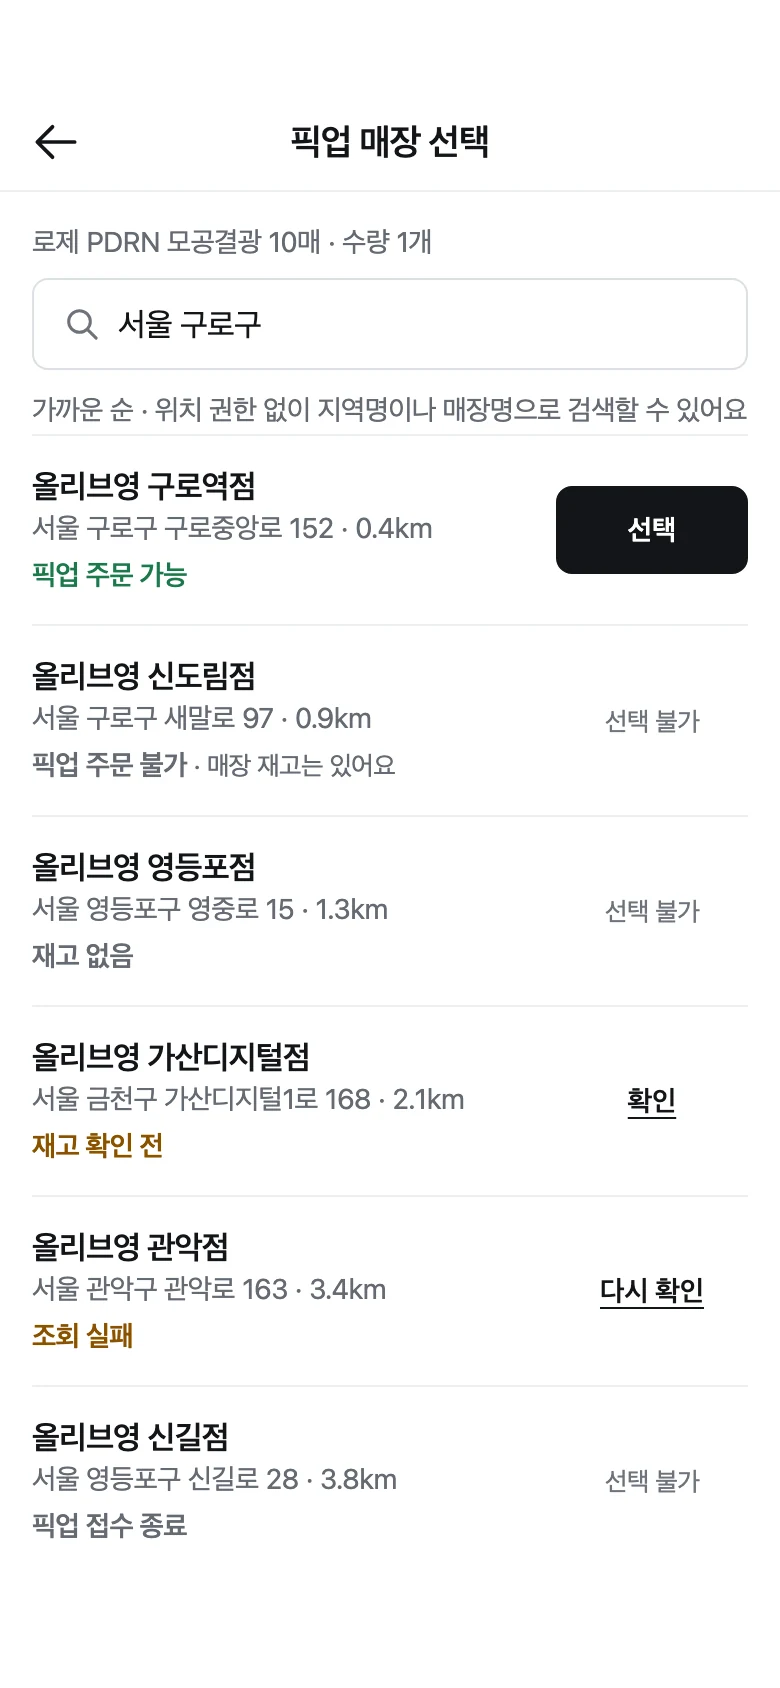
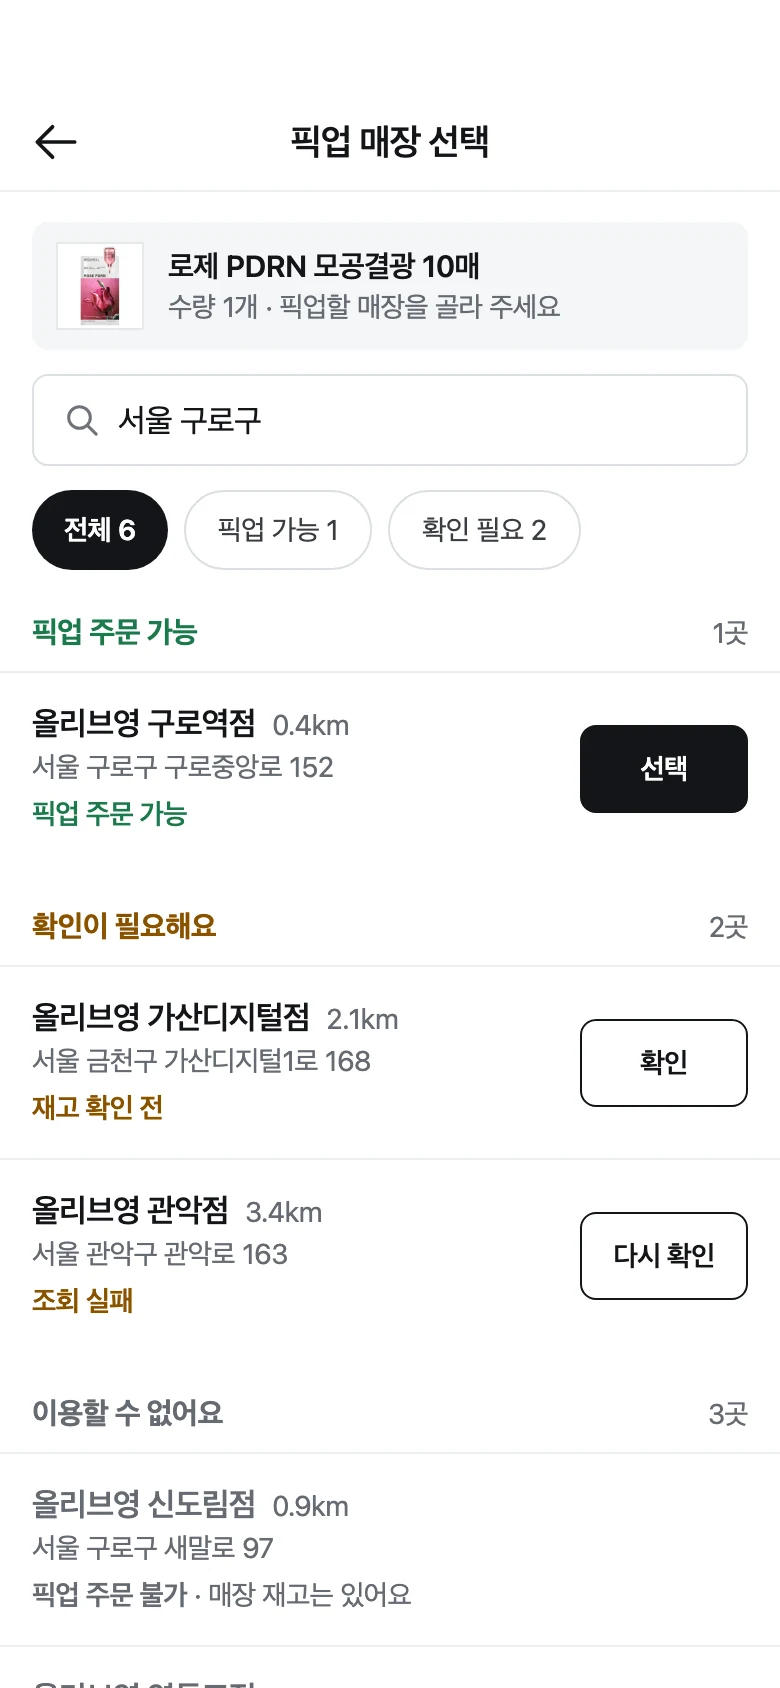
feat: 올리브영 픽업 매장 선택 개선(상태별 그룹·필터 칩·액션 열 정리), 프로토타입·이미지 반영

diff --git a/public/proto/oliveyoung/index.html b/public/proto/oliveyoung/index.html
@@ -115,13 +115,19 @@
 
   <sc-if value="{{isStore}}" hint-placeholder-val="{{ false }}">
     <div style="position:absolute;left:0;right:0;top:47px;height:48px;display:grid;grid-template-columns:56px 1fr 56px;align-items:center;text-align:center;border-bottom:1px solid #EEEFF1;background:#FFFFFF"><button aria-label="뒤로" onClick="{{storeBack}}" style="width:44px;height:44px;margin-left:6px;border:0;background:none;display:flex;align-items:center;justify-content:center"><svg width="28" height="28" viewBox="0 0 24 24" fill="none" stroke="#131518" stroke-width="1.6" stroke-linecap="round" stroke-linejoin="round" aria-hidden="true"><path d="M20 12H4.5M10.5 5.5L4 12l6.5 6.5"></path></svg></button><span style="font-size:18px;font-weight:600">픽업 매장 선택</span><span></span></div>
-    <div style="position:absolute;left:0;right:0;top:96px;bottom:0;overflow-y:auto;padding:16px 16px 120px;box-sizing:border-box">
-      <div style="font-size:14px;line-height:20px;color:#666B73">{{productName}} · 수량 1개</div>
-      <div style="margin-top:8px;height:44px;border:1px solid #DCDFE3;border-radius:8px;padding:0 14px;display:flex;align-items:center;gap:8px;font-size:16px"><svg width="20" height="20" viewBox="0 0 24 24" fill="none" stroke="#6E737B" stroke-width="1.8" stroke-linecap="round" aria-hidden="true"><circle cx="10.5" cy="10.5" r="6.5"></circle><path d="M15.5 15.5l5 5"></path></svg><input type="search" value="{{query}}" onKeyDown="{{searchKey}}" onChange="{{searchChange}}" placeholder="지역명이나 매장명 검색" aria-label="픽업 매장 검색" enterkeyhint="search" style="flex:1;min-width:0;height:42px;border:0;outline:0;background:none;font-size:16px;font-family:inherit;color:#131518;letter-spacing:inherit;padding:0"></div>
-      <sc-if value="{{hasStores}}"><div style="font-size:14px;line-height:20px;color:#666B73;margin:10px 0 2px">가까운 순 · 위치 권한 없이 지역명이나 매장명으로 검색할 수 있어요</div></sc-if>
-      <sc-if value="{{noResults}}"><div style="padding-top:150px;text-align:center"><div style="font-size:18px;line-height:26px;font-weight:700">검색 결과가 없어요</div><div style="font-size:14px;line-height:20px;color:#666B73;margin-top:4px">다른 지역이나 매장 이름으로 검색해 보세요.</div><div style="margin-top:20px;display:flex;justify-content:center"><button onClick="{{clearQuery}}" style="flex:none;width:96px;height:44px;padding:0;font-family:inherit;border-radius:8px;font-size:14px;font-weight:600;background:#FFFFFF;color:#131518;border:1px solid #131518">검색어 지우기</button></div></div></sc-if>
-      <sc-for list="{{stores}}" as="s" hint-placeholder-count="6">
-        <div style="display:flex;align-items:center;gap:8px;padding:14px 0;border-top:1px solid #EEEFF1"><div style="flex:1;min-width:0"><div style="font-size:16px;font-weight:600;line-height:22px">{{s.name}}</div><div style="font-size:14px;line-height:20px;color:#666B73">{{s.addr}}</div><div style="margin-top:2px"><span style="{{s.chipStyle}}">{{s.chip}}</span><span style="font-size:13px;color:#666B73">{{s.chipDesc}}</span></div></div><button onClick="{{s.tap}}" aria-disabled="{{s.disabled}}" style="{{s.btnStyle}}">{{s.btnText}}</button></div>
+    <div style="position:absolute;left:0;right:0;top:96px;bottom:0;overflow-y:auto;padding:0 0 120px;box-sizing:border-box">
+      <div style="padding:16px 16px 0">
+        <div style="display:flex;gap:12px;align-items:center;padding:10px 12px;background:#F5F6F8;border-radius:8px"><div style="flex:none;width:44px;height:44px;border:1px solid #E6E8EA;background:#fff;display:flex;align-items:center;justify-content:center;overflow:hidden;box-sizing:border-box"><img src="{{productImg}}" alt="" style="height:40px;width:auto;max-width:100%"></div><div style="flex:1;min-width:0"><div style="font-size:15px;line-height:21px;font-weight:600;white-space:nowrap;overflow:hidden;text-overflow:ellipsis">{{productName}}</div><div style="font-size:14px;line-height:20px;color:#666B73">수량 1개 · 픽업할 매장을 골라 주세요</div></div></div>
+        <div style="margin-top:12px;height:44px;border:1px solid #DCDFE3;border-radius:8px;padding:0 14px;display:flex;align-items:center;gap:8px;font-size:16px"><svg width="20" height="20" viewBox="0 0 24 24" fill="none" stroke="#6E737B" stroke-width="1.8" stroke-linecap="round" aria-hidden="true"><circle cx="10.5" cy="10.5" r="6.5"></circle><path d="M15.5 15.5l5 5"></path></svg><input type="search" value="{{query}}" onKeyDown="{{searchKey}}" onChange="{{searchChange}}" placeholder="지역명이나 매장명 검색" aria-label="픽업 매장 검색" enterkeyhint="search" style="flex:1;min-width:0;height:42px;border:0;outline:0;background:none;font-size:16px;font-family:inherit;color:#131518;letter-spacing:inherit;padding:0"></div>
+        <sc-if value="{{hasStores}}"><div role="group" aria-label="매장 상태 필터" style="display:flex;gap:8px;margin-top:12px"><sc-for list="{{storeChips}}" as="c"><button onClick="{{c.pick}}" aria-pressed="{{c.selected}}" style="{{c.style}}">{{c.label}}</button></sc-for></div></sc-if>
+      </div>
+      <sc-if value="{{noResults}}"><div style="padding-top:130px;text-align:center"><div style="font-size:18px;line-height:26px;font-weight:700">검색 결과가 없어요</div><div style="font-size:14px;line-height:20px;color:#666B73;margin-top:4px">다른 지역이나 매장 이름으로 검색해 보세요.</div><div style="margin-top:20px;display:flex;justify-content:center"><button onClick="{{clearQuery}}" style="flex:none;width:112px;height:44px;padding:0;font-family:inherit;border-radius:8px;font-size:14px;font-weight:600;background:#FFFFFF;color:#131518;border:1px solid #131518">검색어 지우기</button></div></div></sc-if>
+      <sc-if value="{{emptyFilter}}"><div style="padding-top:110px;text-align:center"><div style="font-size:18px;line-height:26px;font-weight:700">해당하는 매장이 없어요</div><div style="margin-top:20px;display:flex;justify-content:center"><button onClick="{{showAllStores}}" style="flex:none;width:112px;height:44px;padding:0;font-family:inherit;border-radius:8px;font-size:14px;font-weight:600;background:#FFFFFF;color:#131518;border:1px solid #131518">전체 보기</button></div></div></sc-if>
+      <sc-for list="{{storeGroups}}" as="g" hint-placeholder-count="3">
+        <div style="display:flex;justify-content:space-between;align-items:baseline;padding:20px 16px 8px"><span style="font-size:15px;line-height:22px;font-weight:700;color:{{g.color}}">{{g.title}}</span><span style="font-size:14px;color:#666B73">{{g.count}}곳</span></div>
+        <sc-for list="{{g.rows}}" as="s" hint-placeholder-count="2">
+          <div style="display:flex;align-items:center;gap:12px;padding:14px 16px;border-top:1px solid #EEEFF1;min-height:76px;box-sizing:border-box"><div style="flex:1;min-width:0"><div style="display:flex;align-items:baseline;gap:8px"><span style="{{s.nameStyle}}">{{s.name}}</span><span style="flex:none;font-size:14px;color:#666B73">{{s.dist}}</span></div><div style="font-size:14px;line-height:20px;color:#666B73">{{s.addr}}</div><div style="margin-top:2px"><span style="{{s.chipStyle}}">{{s.chip}}</span><span style="font-size:14px;color:#666B73">{{s.chipDesc}}</span></div></div><sc-if value="{{s.hasBtn}}"><button onClick="{{s.tap}}" aria-disabled="{{s.disabled}}" style="{{s.btnStyle}}">{{s.btnText}}</button></sc-if></div>
+        </sc-for>
       </sc-for>
     </div>
     <sc-if value="{{storeAllFailed}}" hint-placeholder-val="{{ false }}"><div style="position:absolute;left:0;right:0;bottom:0;padding:12px 16px 28px;background:#FFFFFF;border-top:1px solid #EEEFF1"><div style="font-size:14px;line-height:20px;color:#3A3D42;margin-bottom:10px">확인한 매장 모두 지금은 픽업 주문을 할 수 없어요</div><button onClick="{{storeBack}}" style="height:52px;width:100%;font-size:18px;font-weight:700;font-family:inherit;border-radius:8px;background:#131518;color:#FFFFFF;border:1px solid #131518">구매 방법 다시 보기</button></div></sc-if>

diff --git a/public/proto/oliveyoung/app.js b/public/proto/oliveyoung/app.js
@@ -75,7 +75,7 @@ class Component extends DCLogic {
     this.state = this.fresh(START, 'A');
   }
   fresh(screen, flow) {
-    return { screen: screen, flow: flow, panelOpen: false, recv: 'today', altStage: 'checking', altSel: null, stdTry: 0, stores: { E: 'fail', F: 'closed' }, query: '서울 구로구', intent: 'buy', dTried: false, pickStore: null, method: 'today', slot: 's1', recs: {}, slotSel: null, cartOpen: false, addrCheck: false, g1Open: true, benefitsOpen: false, teaStage: 'fail', stdInfoOpen: false, optSel: null, qty: 1, optMode: 'A', usePoint: false, agree: false, triedPay: false, stockHit: false, restocked: false, returnTo: 'alt' };
+    return { screen: screen, flow: flow, panelOpen: false, recv: 'today', altStage: 'checking', altSel: null, stdTry: 0, stores: { E: 'fail', F: 'closed' }, query: '서울 구로구', intent: 'buy', dTried: false, pickStore: null, method: 'today', slot: 's1', recs: {}, storeFilter: 'all', slotSel: null, cartOpen: false, addrCheck: false, g1Open: true, benefitsOpen: false, teaStage: 'fail', stdInfoOpen: false, optSel: null, qty: 1, optMode: 'A', usePoint: false, agree: false, triedPay: false, stockHit: false, restocked: false, returnTo: 'alt' };
   }
   componentWillUnmount() { this.timers.forEach(function (t) { clearTimeout(t); }); }
   later(fn, ms) { this.timers.push(setTimeout(fn, ms)); }
@@ -181,22 +181,36 @@ class Component extends DCLogic {
     const offBtn = 'flex:none;width:96px;height:44px;padding:0;border:0;background:none;font-size:13px;font-family:inherit;color:#6E737B';
     const q = (st.query || '').trim(), toks = q.split(/\s+/).filter(Boolean);
     const shown = ids.filter((id) => q === '' || q === '서울 구로구' || toks.every((t) => (sNames[id] + ' ' + sAddr[id]).indexOf(t) >= 0));
+    const storeBtn = 'flex:none;width:84px;height:44px;padding:0;border-radius:8px;font-size:14px;font-family:inherit;';
+    const sFilled = storeBtn + 'border:1px solid #131518;background:#131518;color:#FFFFFF;font-weight:600';
+    const sOutline = storeBtn + 'border:1px solid #131518;background:#FFFFFF;color:#131518;font-weight:600';
+    const sBusy = storeBtn + 'border:1px solid #EEEFF1;background:#F5F6F8;color:#666B73';
+    const sMap = {
+      none: ['재고 확인 전', PENDING, '확인', sOutline, false, '', true, 'check'],
+      checking: ['확인 중…', GRAY, '확인 중', sBusy, true, '', true, 'check'],
+      ok: ['픽업 주문 가능', OK, '선택', sFilled, false, '', true, 'ok'],
+      stockNoOrder: ['픽업 주문 불가', GRAY, '', '', true, ' · 매장 재고는 있어요', false, 'off'],
+      no: ['재고 없음', GRAY, '', '', true, '', false, 'off'],
+      fail: ['조회 실패', WARN, '다시 확인', sOutline, false, '', true, 'check'],
+      closed: ['픽업 접수 종료', GRAY, '', '', true, '', false, 'off']
+    };
     const stores = shown.map((id) => {
       const s = st.stores[id] || 'none';
-      const map = {
-        none: ['확인 필요', PENDING, '확인', secBlack, false, ''],
-        checking: ['확인 중…', GRAY, '확인 중', offBtn, true, ''],
-        ok: ['픽업 주문 가능', OK, '선택', btnBase + 'border:1px solid #131518;background:#131518;color:#FFFFFF;font-weight:600', false, ''],
-        stockNoOrder: ['픽업 주문 불가', GRAY, '선택 불가', offBtn, true, ' · 매장 재고는 있어요'],
-        no: ['재고 없음', GRAY, '선택 불가', offBtn, true, ''],
-        fail: ['조회 실패', WARN, '다시 확인', secBlack, false, ''],
-        closed: ['픽업 접수 종료', GRAY, '선택 불가', offBtn, true, '']
-      }[s];
+      const m = sMap[s];
+      const parts = sAddr[id].split(' · ');
       return {
-        name: sNames[id], addr: sAddr[id], chip: map[0], chipStyle: map[1], btnText: map[2], btnStyle: map[3], disabled: map[4], chipDesc: map[5],
+        name: sNames[id], addr: parts[0], dist: parts[1] || '', chip: m[0], chipStyle: m[1], btnText: m[2], btnStyle: m[3], disabled: m[4], chipDesc: m[5], hasBtn: m[6], group: m[7],
+        nameStyle: 'font-size:16px;font-weight:600;line-height:22px;color:' + (m[7] === 'off' ? '#666B73' : '#131518'),
         tap: () => { if (s === 'ok') this.chooseStore(id); else if (s === 'none' || s === 'fail') this.checkStore(id); }
       };
     });
+    const cnt = { ok: 0, check: 0, off: 0 };
+    stores.forEach((x) => { cnt[x.group]++; });
+    const sFilter = st.storeFilter || 'all';
+    const chipStyle = (on) => 'flex:none;height:40px;padding:0 16px;border-radius:20px;font-size:14px;font-family:inherit;box-sizing:border-box;' + (on ? 'border:0;background:#131518;color:#FFFFFF;font-weight:600' : 'border:1px solid #DCDFE3;background:#FFFFFF;color:#3A3D42');
+    const storeChips = [['all', '전체', stores.length], ['ok', '픽업 가능', cnt.ok], ['check', '확인 필요', cnt.check]].map((c) => ({ label: c[1] + ' ' + c[2], selected: sFilter === c[0], style: chipStyle(sFilter === c[0]), pick: () => this.setState({ storeFilter: c[0] }) }));
+    const gDefs = [['ok', '픽업 주문 가능', '#1D7A4C'], ['check', '확인이 필요해요', '#8A5200'], ['off', '이용할 수 없어요', '#666B73']];
+    const storeGroups = gDefs.filter((g) => cnt[g[0]] > 0 && (sFilter === 'all' || sFilter === g[0])).map((g) => ({ title: g[1], color: g[2], count: cnt[g[0]], rows: stores.filter((x) => x.group === g[0]) }));
     const productName = isC ? '마데카소사이드 흔적리페어 10+1매' : '로제 PDRN 모공결광 10매';
     const recImg = { r1: IMG.rose, r2: IMG.tea };
     const addedItems = recDefs.filter((r) => st.recs[r.id]).map((r) => ({ name: r.name, img: recImg[r.id], priceText: fmt(r.price), remove: () => { const n = Object.assign({}, this.state.recs); n[r.id] = false; this.setState({ recs: n }); } }));
@@ -317,7 +331,7 @@ class Component extends DCLogic {
       ctaStyle: 'width:100%;height:52px;border-radius:8px;font-size:18px;font-weight:700;font-family:inherit;' + (canBuy ? 'border:1.5px solid #131518;background:#131518;color:#FFFFFF' : 'border:0;background:#DCDFE3;color:#5E636B'),
       ctaNote: pickSel,
       ctaTap: () => { if (stdSel) this.setState({ method: 'standard', screen: 'checkout', g1Open: true }); else if (pickSel) this.setState({ method: 'pickup', screen: 'checkout', g1Open: true }); },
-      stores: stores, storeAllFailed: storeAllFailed, hasStores: stores.length > 0, noResults: stores.length === 0, query: st.query,
+      stores: stores, storeChips: storeChips, storeGroups: storeGroups, emptyFilter: stores.length > 0 && storeGroups.length === 0, showAllStores: () => this.setState({ storeFilter: 'all' }), storeAllFailed: storeAllFailed, hasStores: stores.length > 0, noResults: stores.length === 0, query: st.query,
       searchKey: (e) => { if (e.key === 'Enter') { e.preventDefault(); this.setState({ query: e.target.value.trim() }); e.target.blur(); } },
       searchChange: (e) => { this.setState({ query: e.target.value.trim() }); },
       clearQuery: () => this.setState({ query: '' }),
